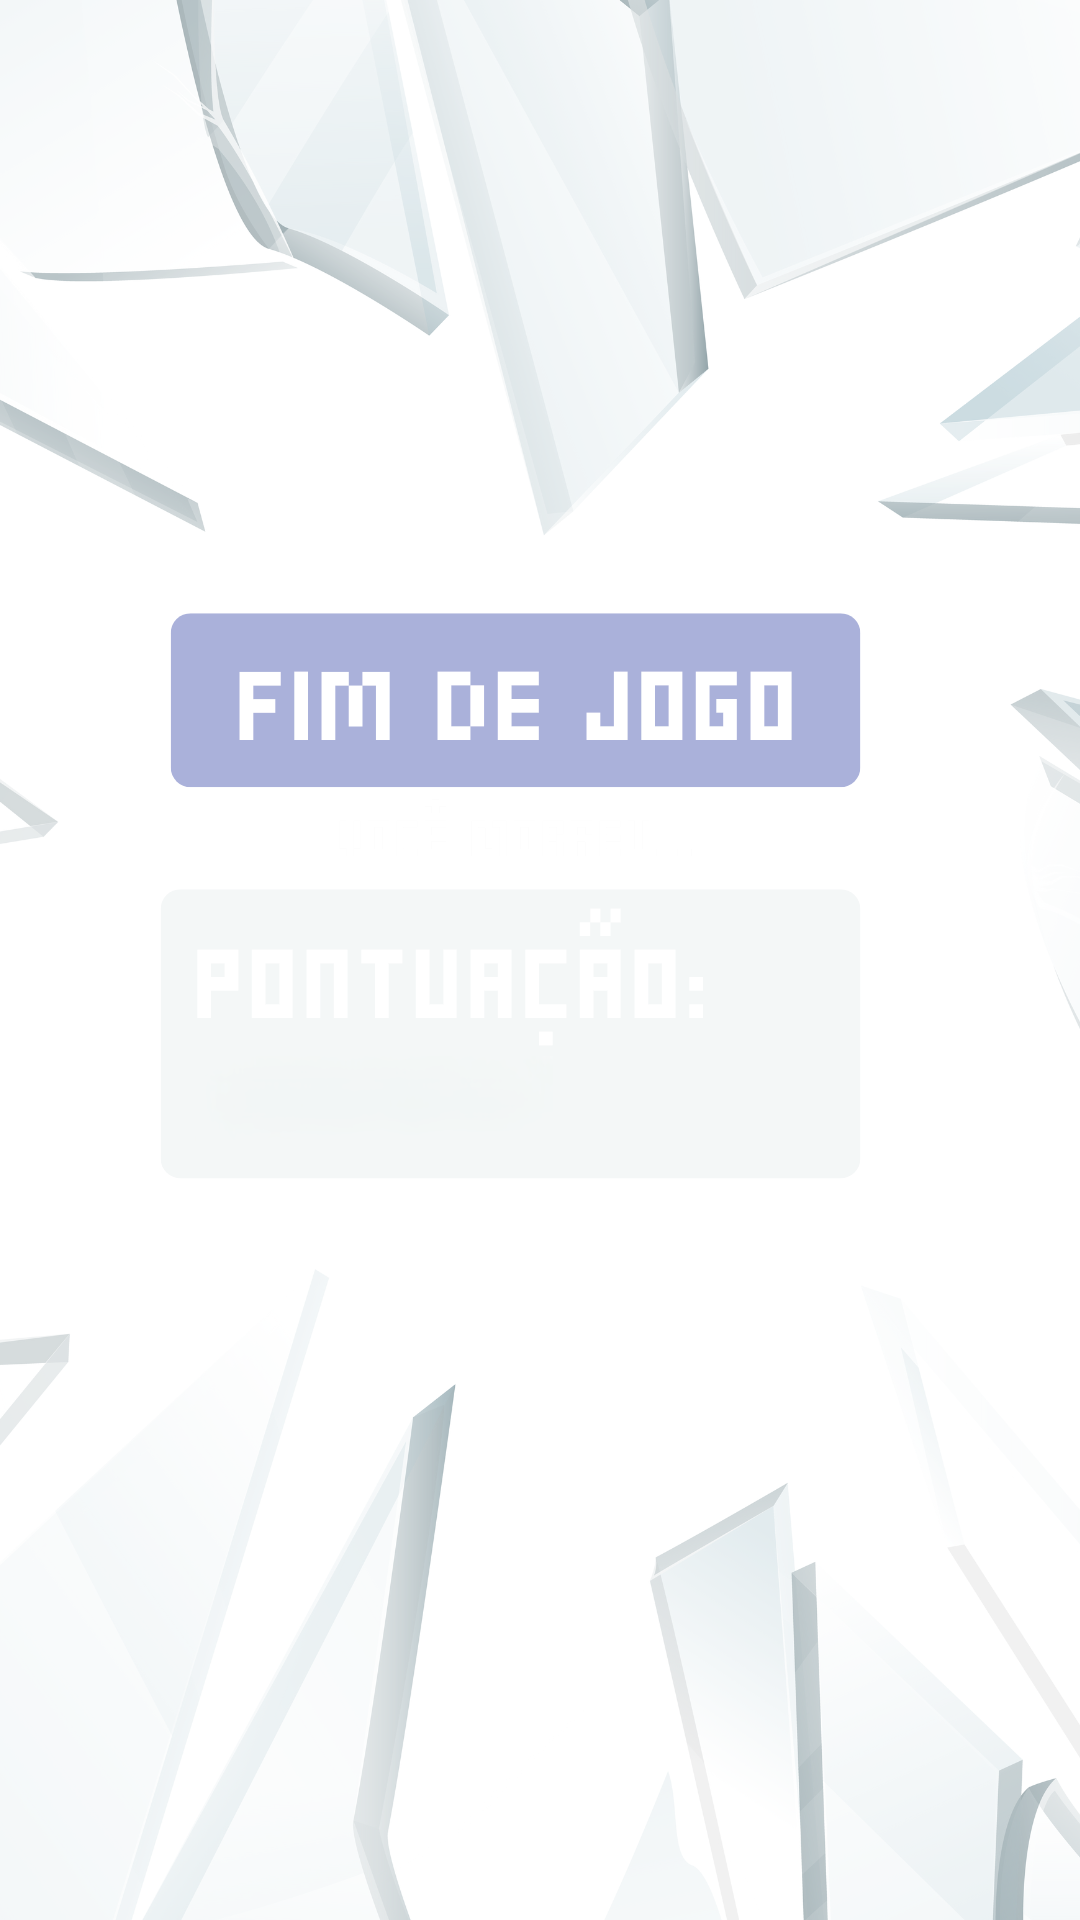
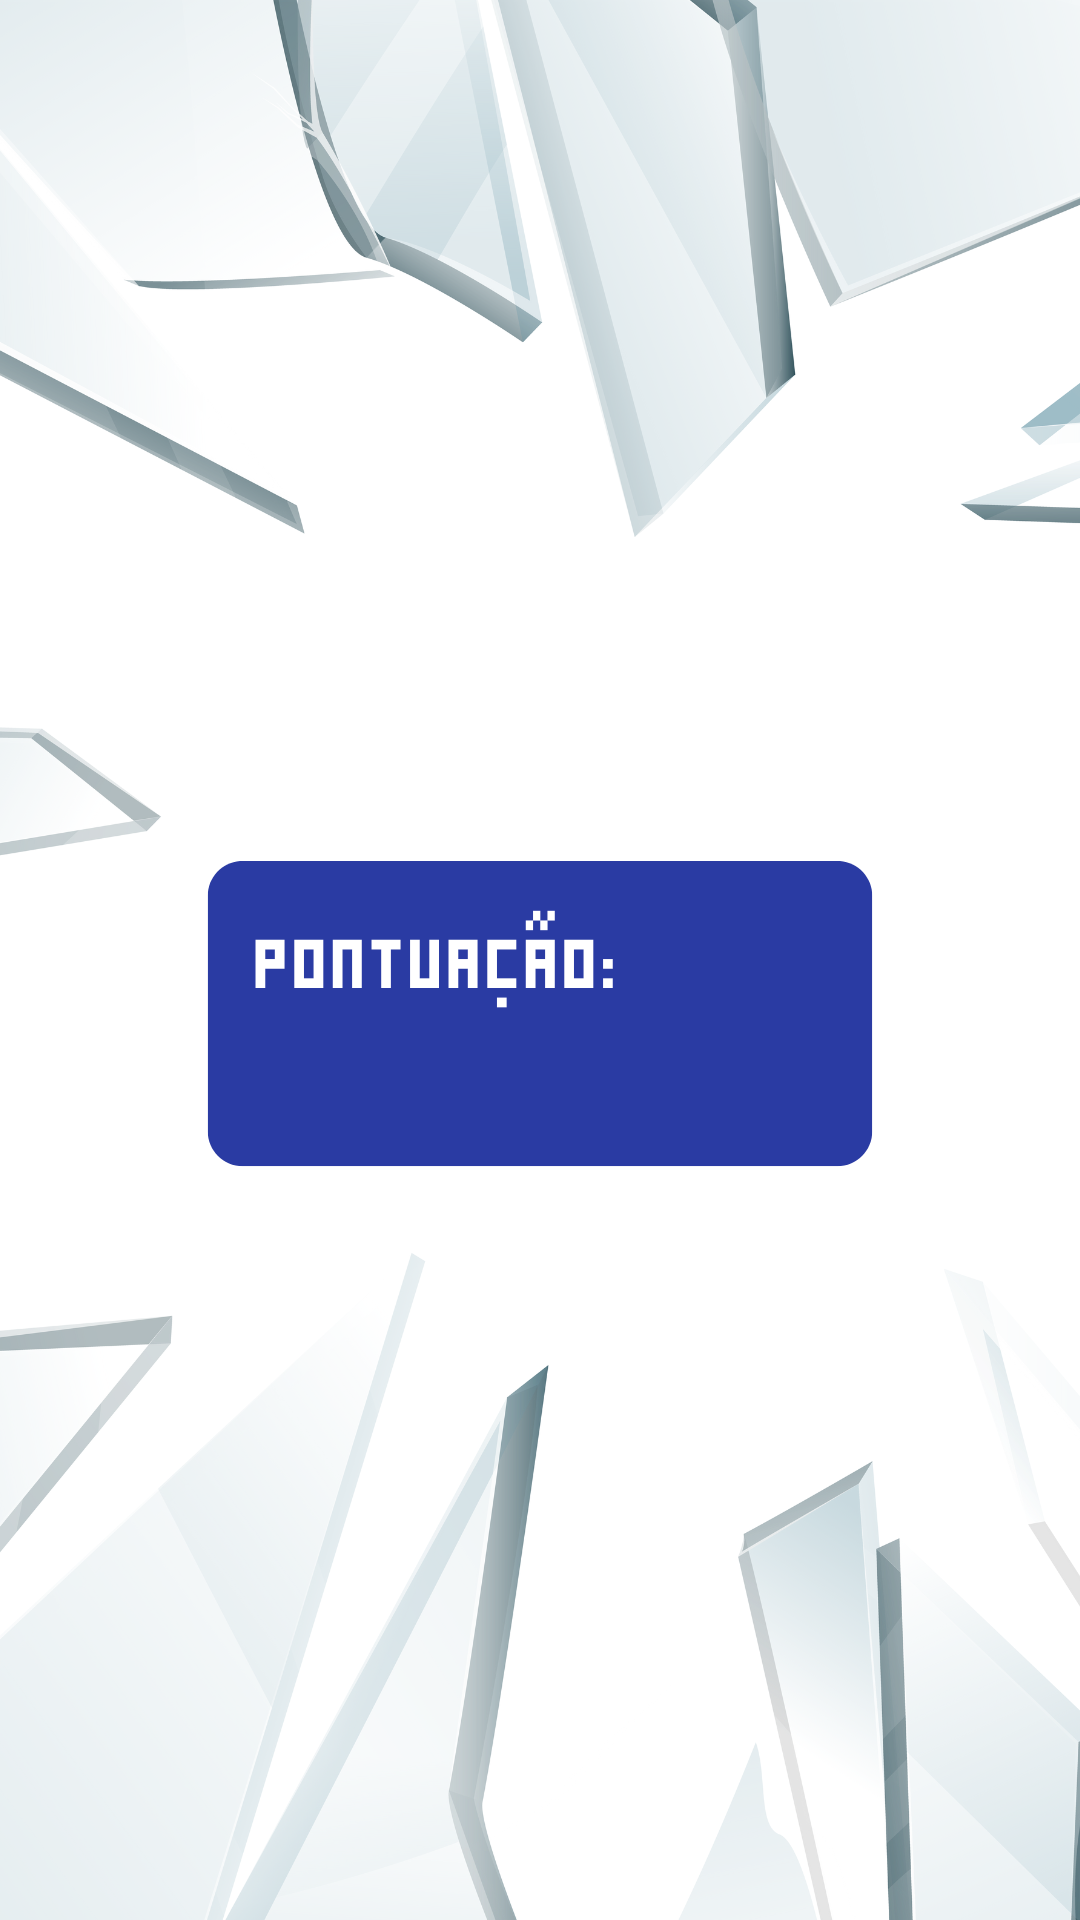
.

diff --git a/jogos/Contando_Estrelas/scenes/GameScene.js b/jogos/Contando_Estrelas/scenes/GameScene.js
@@ -57,7 +57,7 @@ export default class GameScene extends Phaser.Scene {
         // Animação para mover o player para a posição desejada
         this.tweens.add({
             targets: this.player,
-            y: height * 0.72,
+            y: height * 0.7,
             duration: 2000,
             ease: 'Power2',
             onComplete: () => {
@@ -73,12 +73,15 @@ export default class GameScene extends Phaser.Scene {
         // Criar painel de vida e pontuação
         this.add.image(0, 0, 'painel').setOrigin(0).setDisplaySize(width, height); // Ajuste a imagem ao espaço do jogo
 
+        
         // Criar texto de vida
-        this.lifeText = this.add.text(width * 0.72, height * 0.92, 'Life: 3', { fontSize: '32px', fill: '#ffffff', fontFamily: 'Exo_Space' });
+        this.lifeText = this.add.text(width * 0.43, height * 0.867, '3', { fontSize: '22px', fill: '#ffffff', fontFamily: 'Exo_Space' });
 
         // Criar texto de pontuação
-        this.scoreText = this.add.text(width * 0.01, height * 0.92, 'Pontuação: 0', { fontSize: '32px', fill: '#ffffff', fontFamily: 'Exo_Space' });
+        this.scoreText = this.add.text(width * 0.27, height * 0.819, '0', { fontSize: '22px', fill: '#ffffff', fontFamily: 'Exo_Space' });
 
+
+        this.ondaText = this.add.text(width * 0.75, height * 0.845, this.onda, { fontSize: '22px', fill: '#fff' });
         // Campo de entrada de texto
         this.inputField = this.add.text(width * 0.5, height * 0.85, '', { fontSize: '32px', fill: '#FFF', fontFamily: 'Exo_Space' });
         this.inputField.setOrigin(0.5, 0);
@@ -254,7 +257,7 @@ export default class GameScene extends Phaser.Scene {
                     asteroid.text.destroy();
                     asteroid.destroy();
                     this.score += 10;
-                    this.scoreText.setText('Pontuação: ' + this.score);
+                    this.scoreText.setText(this.score);
                     this.tiroDisparado = false;
 
                     // Criar o sprite de explosão na posição do asteroide
@@ -313,7 +316,7 @@ export default class GameScene extends Phaser.Scene {
         explosao.play('explosao_anim');
 
         this.life -= 1;
-        this.lifeText.setText('Life: ' + this.life);
+        this.lifeText.setText(this.life);
         asteroid.text.destroy();
         asteroid.destroy();
 

diff --git a/jogos/Contando_Estrelas/scenes/GameOverScene.js b/jogos/Contando_Estrelas/scenes/GameOverScene.js
@@ -13,17 +13,18 @@ export default class GameOverScene extends Phaser.Scene {
     this.add.image(0, 0, 'fundo_menu').setOrigin(0).setDisplaySize(width, height); // Ajuste a imagem ao espaço do jogo
     const gameover = this.add.image(width / 2, height / 2, 'gameover').setDisplaySize(width, height); // Adicione a imagem de game over ao centro do jogo
 
-    const botaoJogar = this.add.image(0, 0, 'botao_jogar').setOrigin(0).setDisplaySize(width, height);
+    const botaoContinuar = this.add.image(0, 50, 'botao_continuar').setOrigin(0).setDisplaySize(width, height);
 
-    botaoJogar.setInteractive({ useHandCursor: true, pixelPerfect: true });
-    botaoJogar.on('pointerdown', () => {
-      this.fadeOutElements([gameover, botaoJogar], () => {
+
+    botaoContinuar.setInteractive({ useHandCursor: true, pixelPerfect: true });
+    botaoContinuar.on('pointerdown', () => {
+      this.fadeOutElements([gameover, botaoContinuar], () => {
         this.scene.start('MenuScene');
       });
     });
 
     // Exibir pontuação e onda
-    this.add.text(width / 2, height / 2 + 55, `${this.score}`, { fontSize: '32px', fill: '#ffffff', fontFamily: 'Exo_Space' }).setOrigin(0.5);
+    this.add.text(width / 2, height / 2 + 40, `${this.score}`, { fontSize: '32px', fill: '#ffffff', fontFamily: 'Exo_Space' }).setOrigin(0.5);
   }
 
   fadeOutElements(elements, callback) {

diff --git a/jogos/Contando_Estrelas/scenes/PreloadScene.js b/jogos/Contando_Estrelas/scenes/PreloadScene.js
@@ -18,6 +18,7 @@ export default class PreloadScene extends Phaser.Scene {
         this.load.image('simbolos', 'assets/Simbolos.png');
         this.load.image('titulo', 'assets/Titulo.png');
         this.load.image('botao_jogar', 'assets/Botao_Jogar.png');
+        this.load.image('botao_continuar', 'assets/CONTINUAR.png');
         this.load.image('painel', 'assets/Painel.png');
         this.load.image('gameover', 'assets/Game_Over.png');
         
@@ -74,7 +75,7 @@ export default class PreloadScene extends Phaser.Scene {
 
         // Garantir que as animações foram criadas
         this.time.delayedCall(500, () => {
-            this.scene.start('MenuScene');
+            this.scene.start('GameScene');
         });
     }
 

diff --git a/jogos/Contando_Estrelas/index.html b/jogos/Contando_Estrelas/index.html
@@ -30,9 +30,9 @@
       </div>
 
       <ul class="paginas">
-        <li><a href="/">Início</a></li>
-        <li><a href="/explorar/explorar.html">Explorar</a></li>
-        <li><a href="/sobre_nos/sobre_nos.html">Sobre Nós</a></li>
+        <li><a href="../../">Início</a></li>
+        <li><a href="../../explorar/explorar.html">Explorar</a></li>
+        <li><a href="../../sobre_nos/sobre_nos.html">Sobre Nós</a></li>
       </ul>
 
       <form>
